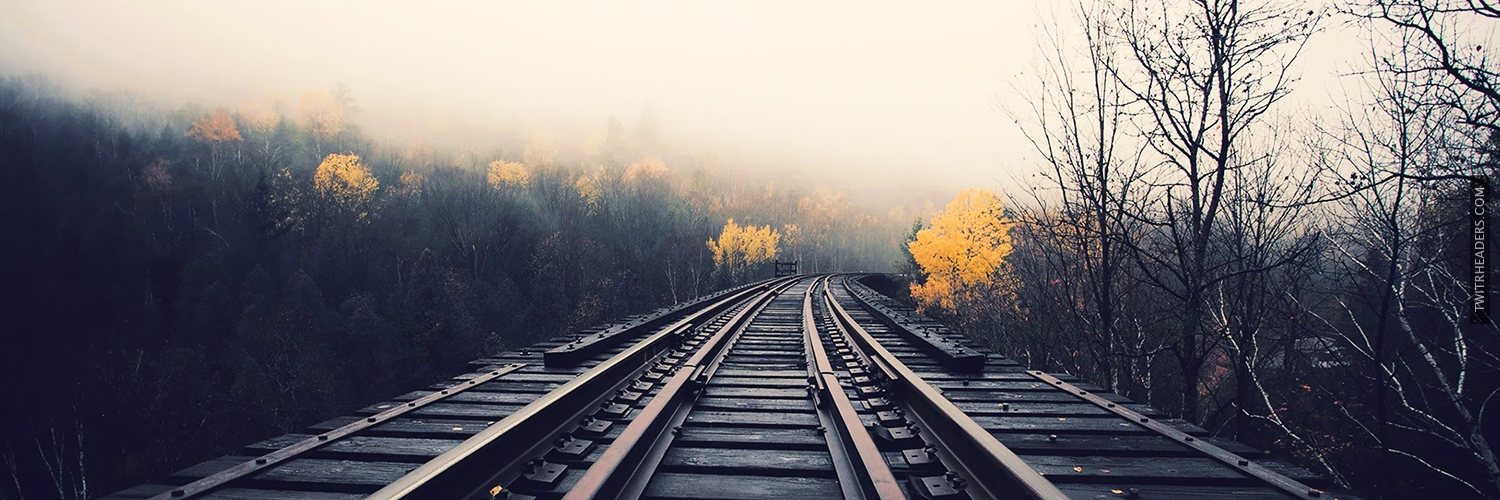
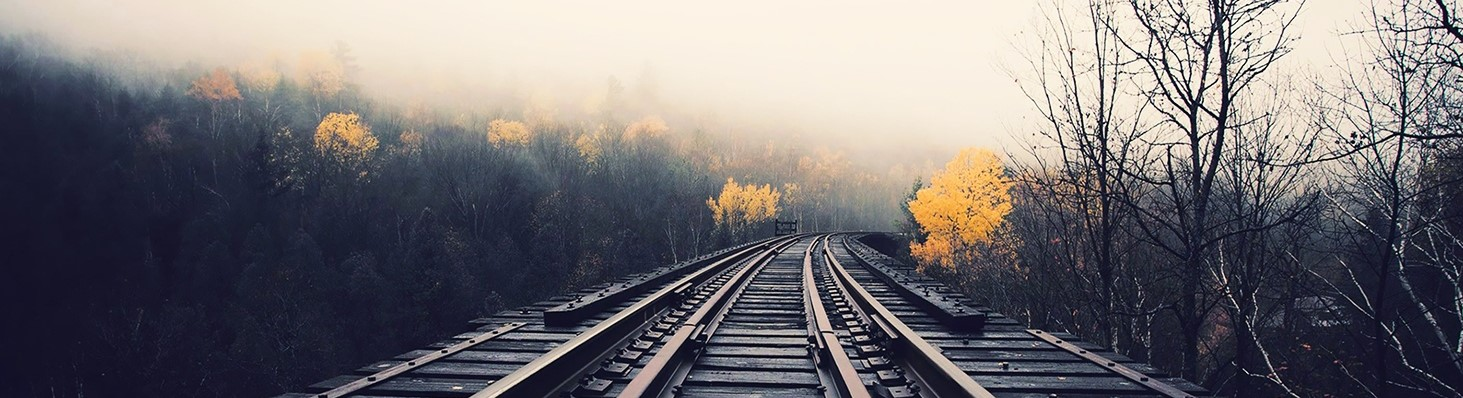
fixed background header

diff --git a/assets/css/style.css b/assets/css/style.css
@@ -5,16 +5,17 @@ body {
 .pageTitle {
     display: flex;
     background-image: url(../images/tracks.jpg);
-    background-size: 100%;
+    background-size: 100% 100%;
     justify-content: center;
     align-items: center;
-    height: 200px;
+    height: 250px;
     margin-top: 5px;
 
 }
 #headerStyle {
     font-family: 'Ultra', serif;
-    font-size: 300%;
+    font-size: 250%;
+    text-align: center;
     color:#25383c;
     background-color: antiquewhite;
     opacity: 0.5;
@@ -56,5 +57,5 @@ thead {
 #timer {
     font-size: 125%;
     margin-bottom: 10px;
-    text-align: center;
+    padding: 0px 0px 5px 20px;
 }
